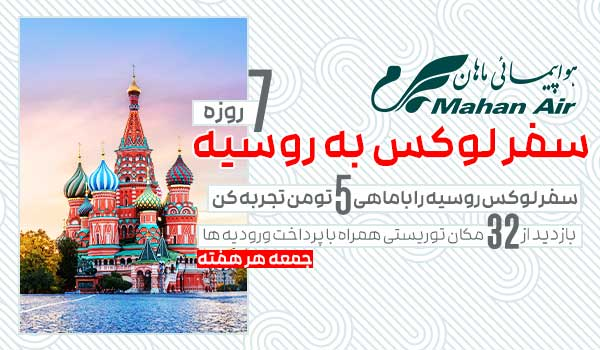
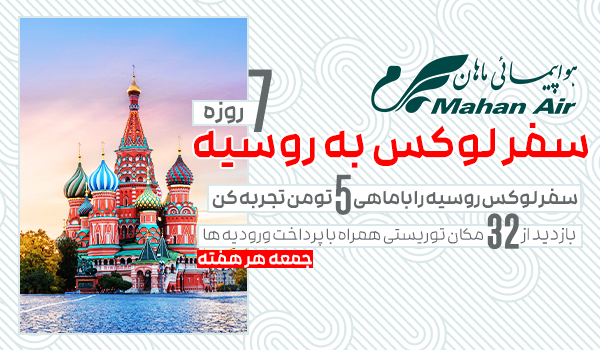
check tour

diff --git a/src/views/TourPackage.vue b/src/views/TourPackage.vue
@@ -77,10 +77,13 @@
                 <v-row class="mb-2" justify="center">
                   <v-data-table :loading="loading" loading-text="در حال پردازش اطلاعات..." :headers="pricesHeaderIstanbul"
                     hide-default-footer :items="pricesItemsIstanbul" :items-per-page="50"
-                    class=" rounded-lg even-odd-tabel  tabelTourId"
+                    class=" rounded-lg even-odd-tabel  tabelTourId englishDataTabel"
                     style="box-shadow: 0 0px 21px #dbdbdb !important;border: 2px solid #9d9d9b !important;">
                     <template v-slot:[`item.name`]="{ item }">
                       <div class="bold" style="letter-spacing: 1px !important;">{{ item.name }}</div>
+                    </template>
+                    <template v-slot:[`item.place`]="{ item }">
+                      <div class="" style="font-family: Byekan !important;">{{ item.place }}</div>
                     </template>
                   </v-data-table>
                 </v-row>
@@ -132,12 +135,14 @@
           <div class="widthAll" v-else-if="tab == 0">
             <v-row justify="center">
               <v-col cols="12" :lg="tour.packagePrograms3 && tour.packagePrograms3.length > 0 ? '12' : '6'">
-                <p v-for="(program, l) in tour.packagePrograms2" :key="l"
-                  class="widthAll mt-2 mt-sm-4 mt-lg-0 mb-3 grey--text text--darken-3 bold text-tour text-justify"
-                  style="float:right;font-family:Byekan !important">
-                  {{ program.program }}
+                <v-row class="heightAll" align="end">
+                  <p v-for="(program, l) in tour.packagePrograms2" :key="l"
+                    class="widthAll mt-2 mt-sm-4 mt-lg-0 mb-3 grey--text text--darken-3 bold text-tour text-justify"
+                    style="float:right;font-family:Byekan !important">
+                    {{ program.program }}
 
-                </p>
+                  </p>
+                </v-row>
               </v-col>
               <div class="d-lg-none widthAll my-sm-4 px-12">
                 <hr class=" mx-12 my-4">
@@ -157,7 +162,16 @@
                   <v-data-table style="box-shadow: 0 0px 21px #dbdbdb !important;" hide-default-footer
                     :headers="flightHeaders" :items="flights"
                     :class="tour.packagePrograms3 && tour.packagePrograms3.length > 0 && 'tabelHeader'"
-                    class="even-odd-tabel rounded-lg hideOver">
+                    class="even-odd-tabel rounded-lg hideOver c">
+                    <template v-slot:[`item.date`]="{ item }">
+                      <div class="bold"
+                        style="white-space: nowrap;font-family: ' Roboto', sans-serif !important;direction:ltr !important">
+                        {{
+                          item.date }}</div>
+                    </template>
+                    <template v-slot:[`item.text2`]="{ item }">
+                      <div class="bold" style="font-family: Byekan !important;white-space: nowrap;">{{ item.text2 }}</div>
+                    </template>
                   </v-data-table>
                 </v-row>
               </v-col>
@@ -668,7 +682,7 @@
   }
 
   .galeryImageParent {
-    width: 95%;
+    width: 45%;
   }
 
   @media (max-width:400px) {
@@ -1054,7 +1068,7 @@
   }
 
   .galeryImageParent {
-    width: 95%;
+    width: 45%;
   }
 
   .halfLi {
@@ -1274,6 +1288,7 @@ export default {
     this.imageNumber = 0
     this.imageDialog = false
     this.packageDocs = []
+    this.flights = []
 
     this.flights = [
       {

diff --git a/src/views/PersonalPhotoSpecifications.vue b/src/views/PersonalPhotoSpecifications.vue
@@ -18,7 +18,7 @@
           دیجیتالی به هیچ نحوی مورد قبول نمی باشد.
         </p> -->
 
-        <ul>
+        <ul class="pl-0">
           <img width="200" src="@/assets/image/personal-image.jpg" alt="">
 
           <li class="mb-2">باید در ۶ ماه گذشته گرفته شده باشد به نحوی که با ظاهر کنونی مطابقت داشته باشد.</li>
@@ -33,13 +33,13 @@
           <li class="mb-2">استفاده از هدفون، دستگاههای هندزفری بی سیم و موارد مشابه در عکس مورد قبول نیست.</li>
           <li class="mb-2">استفاده از عینک در عکس مگر در شرایط خاص پزشکی قابل قبول نیست. در صورت استفاده از عینک به دلایل
             پزشکی رعایت موارد زیر الزامی است:
-            <p class="mt-6 mr-12">
+            <p class="mt-6 mr-3 mr-sm-6 mr-md-12">
               1)قاب عینک نباید چشم ها را بپوشاند.
             </p>
-            <p class="mt-2 mr-12">
+            <p class="mt-2 mr-3 mr-sm-6 mr-md-12">
               2)عینک نباید چشم ها را محو و نامشخص کند.
             </p>
-            <p class="mt-2 mr-12">
+            <p class="mt-2 mr-3 mr-sm-6 mr-md-12">
               3)هر گونه سایه و یا رفلکس نور فلاش عکاسی از روی لنز عینک که باعث نامشخص شدن چشم ها می
               گردد قابل قبول نخواهد بود.
             </p>
@@ -78,12 +78,12 @@
         <p class="mt-6">
           عکس کودکان و نوزادان نباید شامل فرد دیگر باشد و کودک باید به دوربین با چشمان باز نگاه کرده باشد.
         </p>
-        <h4 class="mr-6 mt-6">راهنمای ۱:</h4>
-        <p class="mr-6 mt-2">
+        <h4 class="mr-2 mr-sm-6 mt-6">راهنمای ۱:</h4>
+        <p class="mr-2 mr-sm-6 mt-2">
           کودک خود را بروی یک پوشش روشن بخوابانید. در این شرایط مطمئن شوید سایهای بر روی صورت کودکان ایجاد نمی شود.
         </p>
-        <h4 class="mr-6 mt-6">راهنمای 2:</h4>
-        <p class="mr-6 mt-2">
+        <h4 class="mr-2 mr-sm-6 mt-6">راهنمای 2:</h4>
+        <p class="mr-2 mr-sm-6 mt-2">
           یک صندلی کودک را با پوشش روشن بپوشانید و در حالی که فرزند خود را داخل صندلی قرار داده اید عکس بگیرید.
         </p>
       </div>
@@ -204,11 +204,13 @@
 <style scoped>
 * {
   text-align: justify;
+  line-height: 33px;
 }
 
 @media (max-width:599px) {
   * {
-    font-size: 14px
+    /* font-size: 14px */
+    line-height: 28px;
   }
 
   h1 {

diff --git a/src/components/MainTourCard2.vue b/src/components/MainTourCard2.vue
@@ -19,15 +19,16 @@
             </v-row>
             <v-row :class="!item.date ? 'mt-4' : ''" justify="center" align="center">
               <img class="mx-1" v-for="(airline, k) in item.airline" :key="k" height="40"
-                :src="airline == 'IranAir' ? require('@/assets/image/airlines/iranair.png') : airline == 'Mahan Air' ? require('@/assets/image/airlines/mahan.png') : airline == 'Turkish Airlines' ? require('@/assets/image/airlines/turkish.png') : airline == 'Emirates Airlines' ? require('@/assets/image/airlines/emirates.png') : ''"
+                :src="airline == 'IranAir' ? require('@/assets/image/airlines/iranair.png') : airline == 'Mahan Air' ? require('@/assets/image/airlines/mahan.png') : airline == 'Turkish Airlines' ? require('@/assets/image/airlines/turkish.png') : airline == 'Emirates Airlines' ? require('@/assets/image/airlines/emirates.png') : airline == 'Qatar Airways' ? require('@/assets/image/airlines/qatar-airways.png') : airline == 'Fly Dubai' ? require('@/assets/image/airlines/flydubai.png') : airline == 'Airtour' ? require('@/assets/image/airlines/airtour.png') : ''"
                 alt="">
             </v-row>
             <v-row v-if="item.date" justify="center">
               <span :class="!item.title2 ? ' mt-2 mt-sm-3' : ''" class="body-2 widthAll text-center"
-                style="font-family:Byekan !important">{{ item.date
+                style="font-family:Byekan !important;white-space: nowrap;">{{ item.date
                 }}</span>
               <br v-if="item.date2">
-              <span v-if="item.date2" class="body-2 " style="font-family:Byekan !important">{{ item.date2
+              <span v-if="item.date2" class="body-2 " style="font-family:Byekan !important;white-space: nowrap;">{{
+                item.date2
               }}</span>
             </v-row>
 

diff --git a/src/views/HomeView.vue b/src/views/HomeView.vue
@@ -41,9 +41,10 @@
             <v-carousel-item :src="require('@/assets/image/ویزلاین موبایل.jpg')"></v-carousel-item>
           </router-link>
           <router-link to="/tour/1020">
-            <v-carousel-item :src="require('@/assets/image/tour/site -russia2.jpg')"></v-carousel-item>
+            <v-carousel-item :src="require('@/assets/image/tour/site -russia3.jpg')"></v-carousel-item>
           </router-link>
         </v-carousel>
+
       </div>
     </v-row>
     <!-- tours -->

diff --git a/src/assets/css/main.css b/src/assets/css/main.css
@@ -1471,7 +1471,18 @@ input::-webkit-inner-spin-button {
   }
 }
 
+@media (min-width: 600px) {
+  .englishDataTabel td {
+    font-family: "Roboto", sans-serif !important;
+    direction: ltr !important;
+  }
+}
+
 @media (max-width: 599px) {
+  .englishDataTabel td div:nth-child(2) {
+    font-family: "Roboto", sans-serif !important;
+    direction: ltr !important;
+  }
   .topDivVisa {
     top: 50px;
   }
